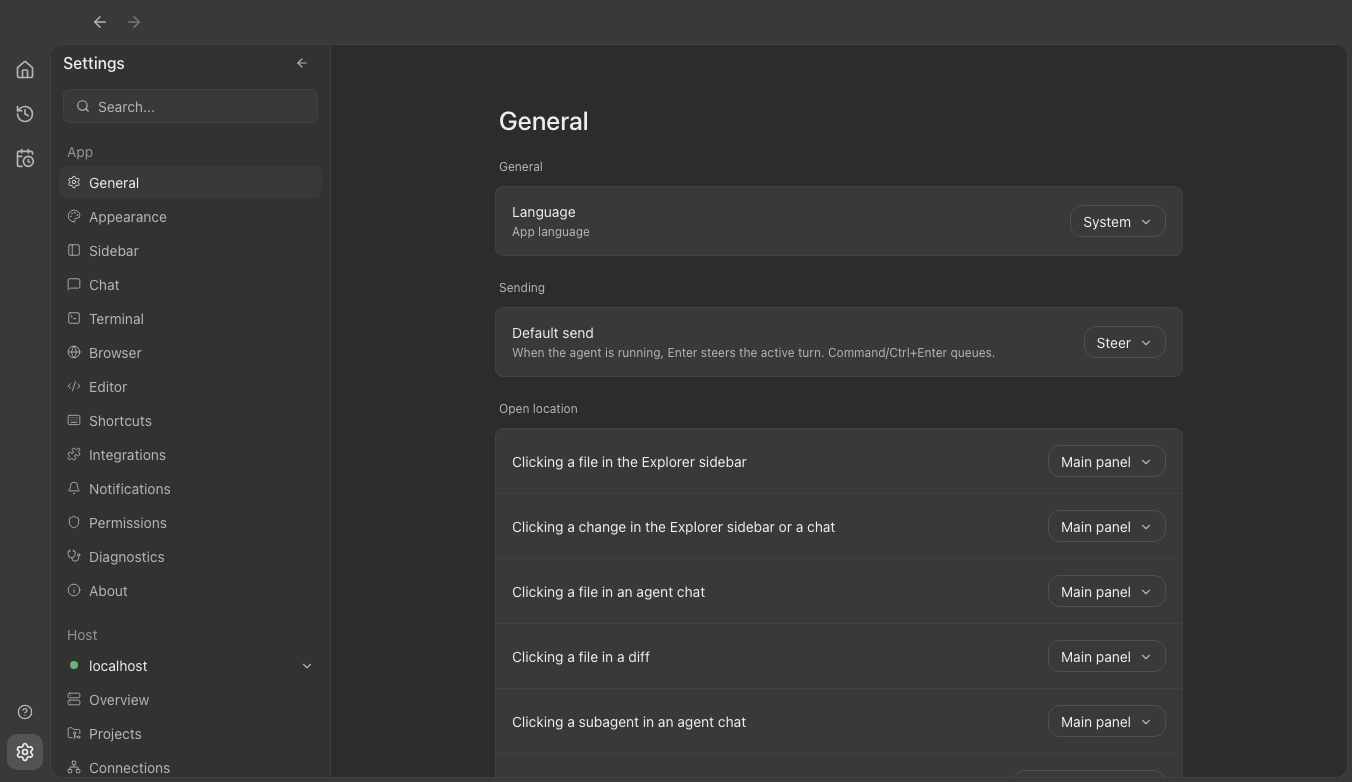
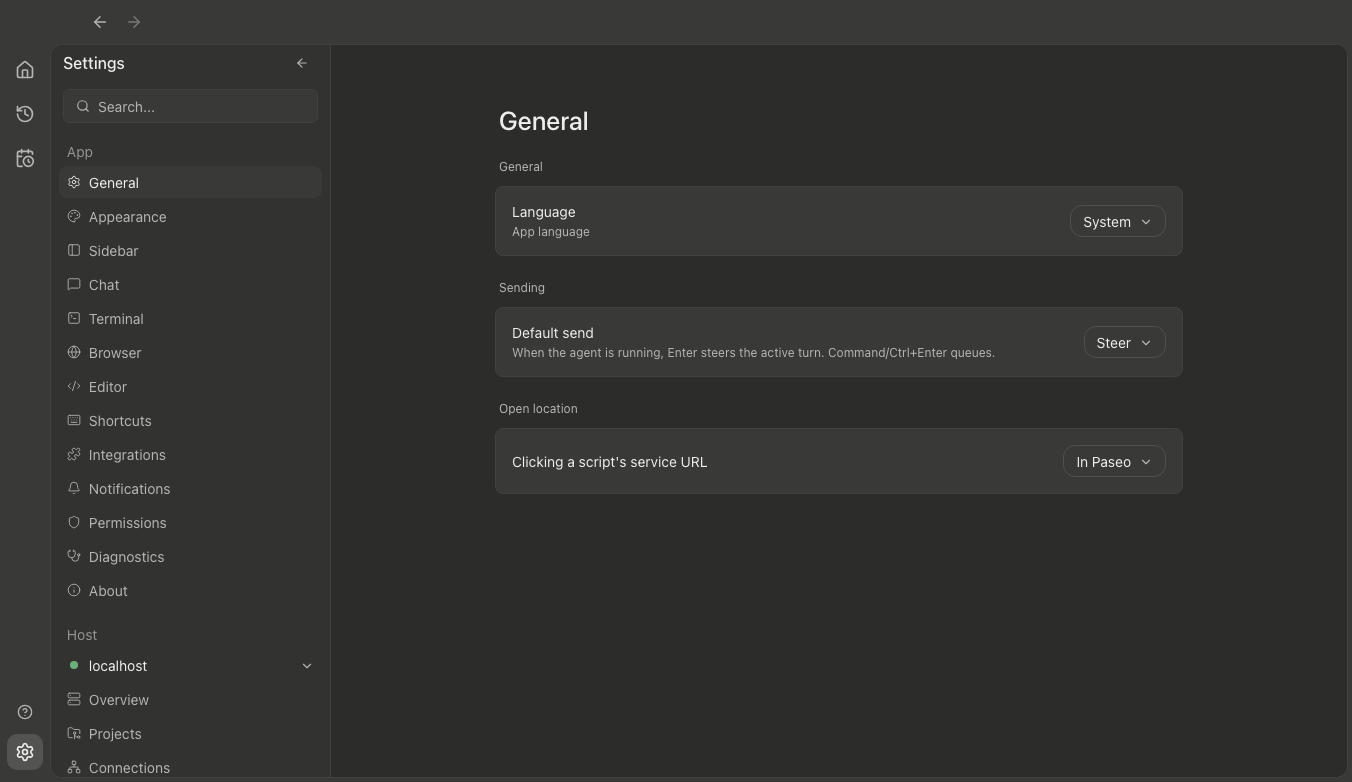
fix(desktop): keep settings controls valid and in view

diff --git a/packages/desktop/e2e/settings-reference.spec.ts b/packages/desktop/e2e/settings-reference.spec.ts
@@ -5,6 +5,15 @@ import { getServerId } from "../../app/e2e/support/helpers/server-id";
 import { getE2EDaemonPort } from "../../app/e2e/support/helpers/daemon-port";
 import { installDesktopRuntime } from "./support/runtime";
 
+const placementLabels = [
+  "Clicking a file in the Explorer sidebar",
+  "Clicking a change in the Explorer sidebar or a chat",
+  "Clicking a file in an agent chat",
+  "Clicking a file in a diff",
+  "Clicking a subagent in an agent chat",
+  "Clicking a pull request in the Explorer sidebar",
+];
+
 test("macOS Settings keeps navigation searchable and Appearance preferences editable", async ({
   page,
 }, testInfo) => {
@@ -20,7 +29,19 @@ test("macOS Settings keeps navigation searchable and Appearance preferences edit
 
   const sidebar = page.getByTestId("settings-sidebar");
   const search = page.getByTestId("settings-sidebar-search");
-  await expect(sidebar).toBeVisible();
+  const shell = page.getByTestId("desktop-shell");
+  const expectFrameFits = async () => {
+    await expect
+      .poll(() =>
+        shell.evaluate((node) => {
+          const rect = node.getBoundingClientRect();
+          return { x: rect.x, width: rect.width, overflow: node.scrollWidth - node.clientWidth };
+        }),
+      )
+      .toEqual({ x: 0, width: page.viewportSize()!.width, overflow: 0 });
+  };
+  await expectFrameFits();
+  await expect(sidebar).toBeInViewport({ ratio: 1 });
   expect(await sidebar.evaluate((node) => node.getBoundingClientRect().width)).toBe(280);
   await expect(sidebar.getByText("Settings", { exact: true })).toBeVisible();
   await expect(search).toBeVisible();
@@ -31,16 +52,72 @@ test("macOS Settings keeps navigation searchable and Appearance preferences edit
 
   await openSettingsSection(page, "general");
   await expect(page.getByTestId("page-title")).toHaveText("General");
+  for (const label of placementLabels) {
+    await expect(page.getByText(label, { exact: true })).toHaveCount(0);
+  }
+  const serviceUrl = page.getByRole("button", { name: /^Clicking a script's service URL:/ });
+  await serviceUrl.click();
+  await page.getByRole("menuitem", { name: "External browser", exact: true }).click();
+  await expect(serviceUrl).toHaveAccessibleName(
+    "Clicking a script's service URL: External browser",
+  );
+  await page.reload();
+  await openSettings(page);
+  await expect(serviceUrl).toHaveAccessibleName(
+    "Clicking a script's service URL: External browser",
+  );
+  await serviceUrl.click();
+  await page.getByRole("menuitem", { name: "In Paseo", exact: true }).click();
+  await expect(serviceUrl).toHaveAccessibleName("Clicking a script's service URL: In Paseo");
+  await expectFrameFits();
+  await expect(sidebar).toBeInViewport({ ratio: 1 });
+  await expect(search).toBeInViewport({ ratio: 1 });
   await page.screenshot({ path: testInfo.outputPath("settings-general.png") });
 
   await openSettingsSection(page, "appearance");
   await expect(page.getByTestId("page-title")).toHaveText("Appearance");
   await expect(page.getByText("Theme", { exact: true }).first()).toBeVisible();
   await page.screenshot({ path: testInfo.outputPath("settings-appearance.png") });
-  await page.setViewportSize({ width: 900, height: 680 });
-  await expect(sidebar).toBeInViewport();
-  await page.setViewportSize({ width: 700, height: 680 });
-  await expect(sidebar).toBeHidden();
-  await page.setViewportSize({ width: 1352, height: 782 });
-  await expect(sidebar).toBeVisible();
+  for (const width of [900, 700, 1352]) {
+    await page.setViewportSize({ width, height: 680 });
+    await expectFrameFits();
+    await expect(page.getByText("Theme", { exact: true }).first()).toBeInViewport({ ratio: 1 });
+    if (width >= 768) {
+      await expect(sidebar).toBeInViewport({ ratio: 1 });
+      await expect(search).toBeInViewport({ ratio: 1 });
+      await expect(sidebar.getByText("Settings", { exact: true })).toBeInViewport({ ratio: 1 });
+    } else {
+      await expect(sidebar).toBeHidden();
+    }
+  }
+});
+
+test("Windows Settings retains editable panel placement preferences", async ({ page }) => {
+  await installDesktopRuntime(page, {
+    serverId: getServerId(),
+    platform: "win32",
+    manageBuiltInDaemon: false,
+    daemonListen: `127.0.0.1:${getE2EDaemonPort()}`,
+  });
+  await gotoAppShell(page);
+  await openSettings(page);
+  for (const label of placementLabels) {
+    await expect(page.getByText(label, { exact: true })).toBeVisible();
+  }
+  const files = page.getByRole("button", { name: /^Clicking a file in the Explorer sidebar:/ });
+  await files.click();
+  await page.getByRole("menuitem", { name: "On the side", exact: true }).click();
+  await expect(files).toHaveAccessibleName("Clicking a file in the Explorer sidebar: On the side");
+  const pullRequests = page.getByRole("button", {
+    name: /^Clicking a pull request in the Explorer sidebar:/,
+  });
+  await pullRequests.click();
+  await expect(page.getByRole("menuitem", { name: "Explorer sidebar", exact: true })).toBeVisible();
+  await page.getByRole("menuitem", { name: "Main panel", exact: true }).click();
+  await page.reload();
+  await openSettings(page);
+  await expect(files).toHaveAccessibleName("Clicking a file in the Explorer sidebar: On the side");
+  await expect(pullRequests).toHaveAccessibleName(
+    "Clicking a pull request in the Explorer sidebar: Main panel",
+  );
 });

diff --git a/packages/app/src/screens/settings/open-location/open-location-section.tsx b/packages/app/src/screens/settings/open-location/open-location-section.tsx
@@ -1,6 +1,7 @@
 import { useCallback, useMemo } from "react";
 import { useTranslation } from "react-i18next";
 import { SettingsSection, SettingsCard, SettingsSelect } from "@/components/settings";
+import { getIsElectronMac } from "@/constants/platform";
 import {
   useAppSettings,
   type OpenInSidePanePreferences,
@@ -102,20 +103,24 @@ export function OpenLocationSection() {
   return (
     <SettingsSection title={t("settings.layout.openInSidePane.title")}>
       <SettingsCard>
-        {SOURCES.map((source) => (
-          <OpenLocationRow
-            key={source}
-            source={source}
-            destination={settings.openInSidePane[source] ? "side" : "main"}
-            onDestinationChange={handleDestinationChange}
-          />
-        ))}
-        <OpenLocationRow
-          source="pullRequests"
-          destination={settings.pullRequestOpenLocation}
-          allowExplorer
-          onDestinationChange={handleDestinationChange}
-        />
+        {!getIsElectronMac() && (
+          <>
+            {SOURCES.map((source) => (
+              <OpenLocationRow
+                key={source}
+                source={source}
+                destination={settings.openInSidePane[source] ? "side" : "main"}
+                onDestinationChange={handleDestinationChange}
+              />
+            ))}
+            <OpenLocationRow
+              source="pullRequests"
+              destination={settings.pullRequestOpenLocation}
+              allowExplorer
+              onDestinationChange={handleDestinationChange}
+            />
+          </>
+        )}
         <ServiceUrlRow />
       </SettingsCard>
     </SettingsSection>

diff --git a/packages/desktop/e2e/support/runtime.ts b/packages/desktop/e2e/support/runtime.ts
@@ -55,6 +55,7 @@ export async function loadRealDaemonState(): Promise<RealDaemonState> {
 
 export interface DesktopRuntimeConfig {
   serverId: string;
+  platform?: "darwin" | "win32" | "linux";
   updateAvailable?: boolean;
   latestVersion?: string;
   updateReadyToInstall?: boolean;
@@ -223,7 +224,7 @@ export async function installDesktopRuntime(
         openTarget: (input: DesktopEditorOpenRecord) => Promise<void>;
       };
     } = {
-      platform: "darwin",
+      platform: cfg.platform ?? "darwin",
       invoke: async (command: string, args?: Record<string, unknown>) => {
         if (command === "check_app_update") {
           return checkAppUpdate(args?.intent);

diff --git a/packages/app/src/components/desktop/titlebar-drag-region.tsx b/packages/app/src/components/desktop/titlebar-drag-region.tsx
@@ -36,6 +36,7 @@ const DRAG_OVERLAY_STYLE: React.CSSProperties = {
 const TOP_RESIZER_STYLE: React.CSSProperties = {
   position: "absolute",
   top: 0,
+  left: 0,
   width: "100%",
   height: 4,
   // @ts-expect-error — WebkitAppRegion is not in CSSProperties

diff --git a/docs/refactors/codex-desktop-ui-plan.md b/docs/refactors/codex-desktop-ui-plan.md
@@ -677,8 +677,20 @@ layouts. Both [General](../qa-evidence/codex-desktop/settings-general.png) and
 [Appearance](../qa-evidence/codex-desktop/settings-appearance.png) captures were
 inspected. Native General-to-Appearance navigation also worked; native search was
 interrupted by user activity and is not accepted. Root format, lint and typecheck
-pass. Detailed settings-page parity and removal of macOS placement choices that
-the fixed right-dock layout now overrides remain outstanding.
+pass. Detailed settings-page parity remains outstanding.
+
+The follow-up removes six inactive placement selectors on macOS while retaining
+the service-URL setting and saved placement values for other platforms. Both Mac
+and Windows-runtime renderer cases pass, including setting changes and reload
+persistence. This is simulated platform coverage, not a Windows-device check.
+
+Menu interaction exposed a separate crop: the top resize edge had no horizontal
+anchor, so its parent's inset created overflow. Focus then scrolled the hidden
+overflow containers and moved Settings partly off-screen. Adding `left: 0` at
+the shared edge fixes the source. The regression checks zero shell overflow and
+fully visible navigation/search through 1352/900/700px and back, rather than
+accepting partial visibility. The updated General capture was inspected. Logs:
+`/private/tmp/paseo-settings-geometry-{red,e2e,lint,typecheck}.log`.
 
 ### Usage data foundation
 

diff --git a/CHANGELOG.md b/CHANGELOG.md
@@ -41,6 +41,8 @@ distribution and full migration acceptance remain pending; see the
 
 ### Fixed
 
+- Removed inactive macOS panel-placement selectors from General settings while retaining service URL behavior and other platforms' saved placement choices.
+- Anchored the titlebar's top resize edge to its container, preventing horizontal overflow that could clip Settings navigation after menu interactions.
 - Kept missing quota readings and credit balances unavailable instead of treating them as zero. Known usage meters now expose their values to assistive technology.
 - Corrected Codex quota labels using the API's reported window duration and retained credit balances in credits, including accounts whose primary limit spans a week.
 - Localized the file-upload label in Chinese, Spanish, French and Arabic.

diff --git a/docs/explorer-sidebar.md b/docs/explorer-sidebar.md
@@ -27,6 +27,8 @@ File tools contain their own tree on the right; toggling it preserves the editor
 instance and unsaved text. Panel content and backend ownership are unchanged.
 
 These placement rules override the desktop open-location preferences on macOS.
+The inactive placement selectors are hidden there without deleting saved choices;
+the service-URL behavior setting remains effective and visible.
 The ordinary split-pane and preference contracts below continue on other platforms.
 
 ## Panel host contract
